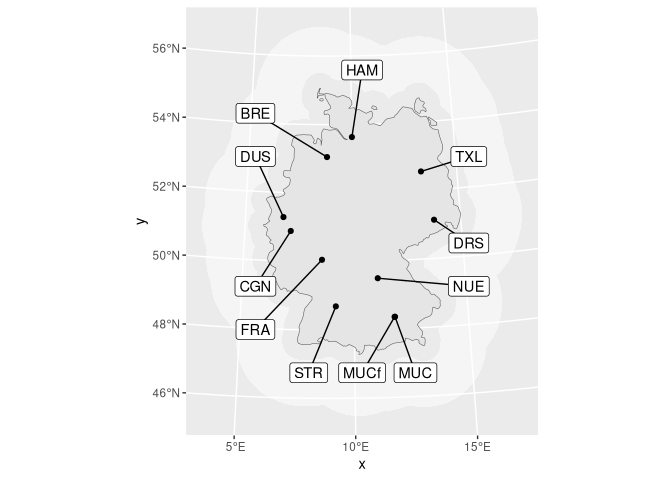
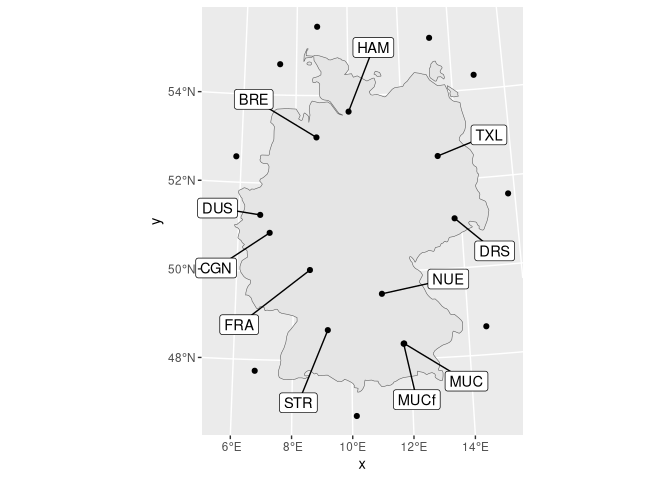
this change allows for shorter code with a better result in the README

diff --git a/README.md b/README.md
@@ -133,10 +133,8 @@ cowplot::plot_grid(p4, p5, p6, p7)
 `geom_textgrid` and `geom_labelgrid` perform the same arrangement
 operation for text labels as `geom_pointgrid` for points.
 `geom_segmentgrid` draws segments between the original point positions
-and the grid positions. All of these geoms allow to set polygons
-(defined with the [sf package](https://r-spatial.github.io/sf)) to
-specify the extend of the grid. This enables a mechanism for label
-placement, both for arbitrary scatter plots, and for maps.
+and the grid positions. This enables a mechanism for label placement,
+both for arbitrary scatter plots, and for maps.
 
 ``` r
 library(magrittr)
@@ -154,10 +152,10 @@ airports_germany <- airports_world %>%
 
 # prepare spatial data
 germany_4647 <- germany %>% sf::st_transform(4647)
-germany_buffer_4647 <- germany_4647 %>%
-  sf::st_buffer(dist = 200000) %>%
-  sf::st_difference(germany_4647 %>% sf::st_buffer(dist = 50000)) %>%
-  sf::st_geometry()
+germany_buffer_points_4647 <- germany_4647 %>%
+  sf::st_buffer(dist = 60000) %>%
+  sf::st_boundary() %>%
+  sf::st_line_sample(n = 20)
 airports_df <- airports_germany %>%
   sf::st_transform(4647) %>%
   dplyr::mutate(
@@ -168,14 +166,15 @@ airports_df <- airports_germany %>%
 # label plot
 ggplot() +
   geom_sf(data = germany_4647) +
-  geom_sf(data = germany_buffer_4647, fill = "white", colour = NA, alpha = 0.5) +
+  geom_sf(data = germany_buffer_points_4647) +
   geom_point(data = airports_df, aes(x, y)) +
   ggpointgrid::geom_segmentgrid(
     data = airports_df, aes(x, y),
-    polygons_sf = germany_buffer_4647, grid_x = 7L, grid_y = 10L) +
+    grid_xy = sf::st_coordinates(germany_buffer_points_4647)) +
   ggpointgrid::geom_labelgrid(
     data = airports_df, aes(x, y, label = abbrev),
-    polygons_sf = germany_buffer_4647, grid_x = 7L, grid_y = 10L)
+    grid_xy = sf::st_coordinates(germany_buffer_points_4647)) +
+  coord_sf(clip = "off")
 ```
 
 ![](README_files/figure-gfm/unnamed-chunk-3-1.png)<!-- -->
